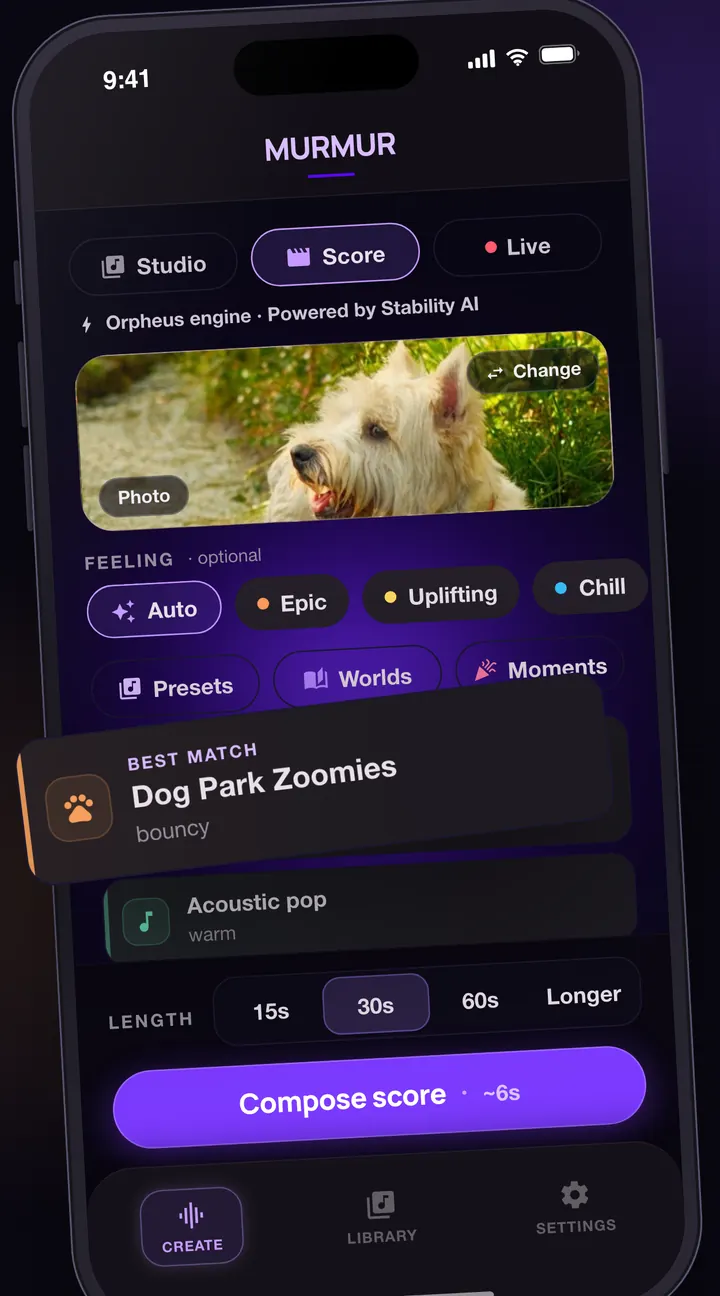
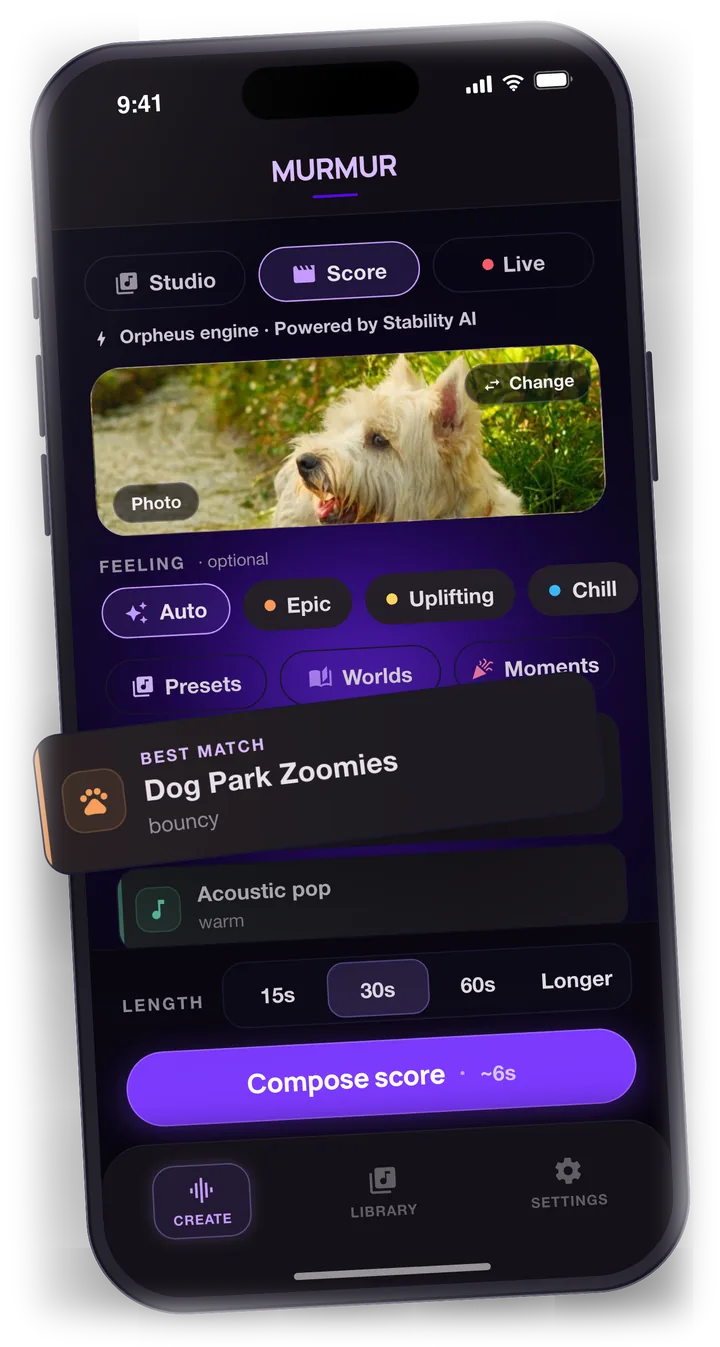
Score section: phone image on a transparent background (rendered bare from the screenshot pipeline)

diff --git a/src/app/page.tsx b/src/app/page.tsx
@@ -497,10 +497,10 @@ export default function Home() {
                 <picture>
                   <source srcSet="/images/score-photo.webp" type="image/webp" />
                   <img
-                    src="/images/score-photo.jpg"
+                    src="/images/score-photo.png"
                     alt="Murmur's Score screen on iPhone: a photo of a small white dog in the grass, Feeling chips (Auto, Epic, Uplifting, Chill), and the suggested music below it, with Dog Park Zoomies as the best match and Acoustic pop as another idea"
                     width={720}
-                    height={1296}
+                    height={1347}
                     loading="lazy"
                     decoding="async"
                     className="h-auto w-full"
